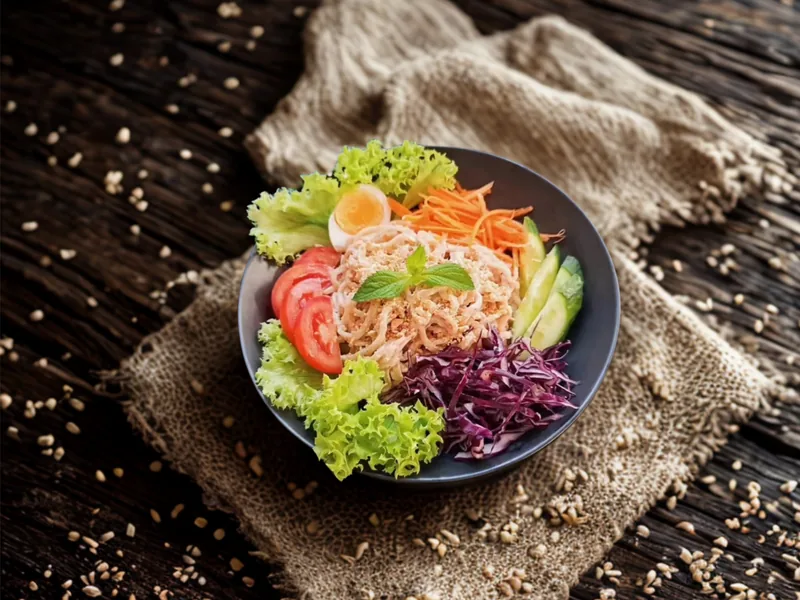
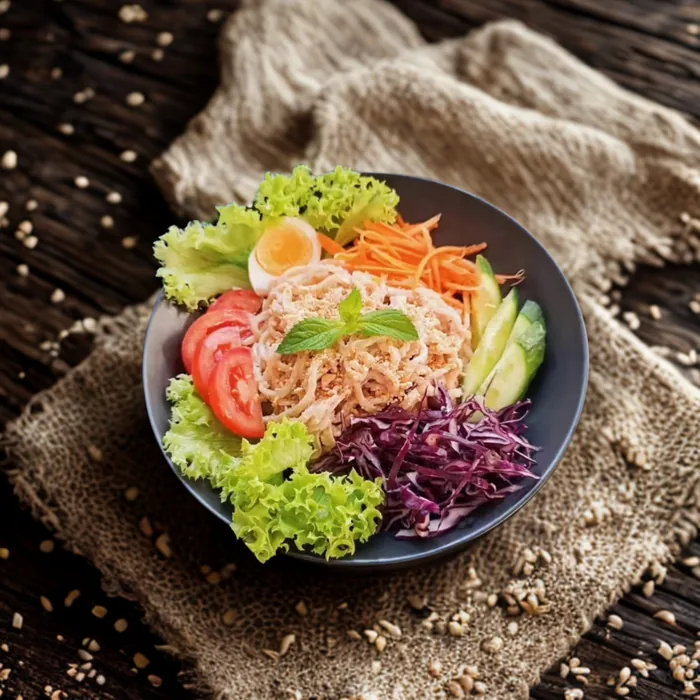
Gerichtefotos: quadratisch, Teller mittig und einheitlich gross
Felix' Wunsch: alle Teller gleich gross und in der Bildmitte. Das ging
nicht mit dem bisherigen Zuschnitt - und auch nicht im bisherigen Format.

Warum quadratisch
  Die Teller fuellen in den Vorlagen zwischen 60 und 93 Prozent der
  Bildbreite. Damit ein runder Teller bei 4:3 vollstaendig ins Bild
  passt, duerfte er hoechstens 70 Prozent einnehmen - das erfuellten nur
  sieben der zwanzig Aufnahmen. Bei einem quadratischen Ausschnitt
  entfaellt die Einschraenkung.

Wie die Teller vermessen wurden
  Zwei automatische Verfahren scheiterten, beide sind dokumentiert:

  Eine Maske aus "sehr dunkel oder stark gesaettigt" sollte Teller und
  Essen vom Untergrund trennen. Sie erfasste praktisch das ganze Bild,
  weil das Holz dieser Aufnahmen selbst dunkel ist - Durchmesser 0,97 bei
  18 von 20 Bildern, also unbrauchbar.

  Danach Hough-Kreiserkennung, die grundsaetzlich passt, weil Teller rund
  sind. Ergebnis brauchbar bei etwa der Haelfte, sonst Durchmesser
  zwischen 0,39 und 1,02 - beim gruenen Curry wurde nur das Essen
  erkannt, bei Pork Adobo die Reisschale daneben mit eingefasst. Zur
  Kontrolle sind die erkannten Kreise ins Bild gezeichnet worden; da war
  es offensichtlich.

  Deshalb von Hand: 10-Prozent-Raster ueber die zwanzig Originale gelegt,
  Mittelpunkt und Durchmesser abgelesen, Werte in tools/tellerwerte.py.
  Bei zwanzig Bildern ist das schneller als weiteres Feilen an der
  Automatik und sicher richtig. Die Quellzuordnung steht in
[…]

diff --git a/speisekarte.html b/speisekarte.html
@@ -1042,13 +1042,13 @@
   .dishes{display:grid;grid-template-columns:1fr 1fr;gap:1px;background:var(--line);border:1px solid var(--line);}
   .dish{background:var(--bg);padding:44px 36px;}
   section[style] .dish{background:var(--bg-2);}
-  /* Das Foto sitzt innerhalb des Kartenpolsters statt randlos an der Oberkante.
-     Zusammen mit dem 4:3-Zuschnitt (statt 3:2) bleibt deutlich mehr vom Teller
-     stehen — bei den hochkanten Vorlagen fiel vorher über die Hälfte weg.
-     Der Zuschnitt ist auf den Schwerpunkt der Farbsättigung zentriert, der bei
-     diesen Aufnahmen zuverlässig auf dem Teller liegt. width/height verhindern
-     Layoutsprünge beim Nachladen. */
-  .dish img{width:100%;height:auto;margin:0 0 24px;border:1px solid var(--line);}
+  /* Quadratisches Format: Nur so passt ein runder Teller vollständig und in
+     einheitlicher Größe ins Bild. Bei 4:3 dürfte er höchstens 70 % der Breite
+     einnehmen — das erfüllten nur sieben der zwanzig Vorlagen.
+     Lage und Durchmesser der Teller sind von Hand vermessen (tools/, siehe
+     Commit-Verlauf); die Zuschnitte setzen den Teller mittig und auf 80 % der
+     Bildbreite. width/height verhindern Layoutsprünge beim Nachladen. */
+  .dish img{width:100%;height:auto;aspect-ratio:1/1;object-fit:cover;margin:0 0 24px;border:1px solid var(--line);}
   .dish h3{font-size:1.5rem;margin-bottom:12px;}
   .dish > p{color:var(--cream-dim);font-size:0.92rem;margin-bottom:18px;}
   .tags{display:flex;flex-wrap:wrap;gap:8px;margin-bottom:22px;}
@@ -1247,42 +1247,42 @@
     </div>
     <div class="dishes">
       <article class="dish">
-        <img src="img/gerichte/gruenes-thai-curry.webp" width="800" height="600" loading="lazy" alt="Grünes Thai Curry mit grünen Bohnen und Hähnchen">
+        <img src="img/gerichte/gruenes-thai-curry.webp" width="700" height="700" loading="lazy" alt="Grünes Thai Curry mit grünen Bohnen und Hähnchen">
         <h3>Grünes Thai Curry</h3>
         <p>Ein feuriges Thai Curry mit Zucchini, grünen Bohnen und Karotten. Entweder mit mariniertem Hähnchenfleisch oder als vegane Variante mit Süßkartoffeln.</p>
         <div class="tags"><span class="tag">vegan möglich</span><span class="tag">feurig</span></div>
         <table class="preise"><thead><tr><th scope="col"><span class="vh">Variante</span></th><th scope="col">Normal</th><th scope="col">Klein</th><th scope="col">Schüler</th></tr></thead><tbody><tr><th scope="row">Mit Hähnchen</th><td data-label="Normal">9,90 €</td><td data-label="Klein">7,50 €</td><td data-label="Schüler">7,50 €</td></tr><tr><th scope="row">Vegan</th><td data-label="Normal">9,40 €</td><td data-label="Klein">7,00 €</td><td data-label="Schüler">7,00 €</td></tr></tbody></table>
       </article>
       <article class="dish">
-        <img src="img/gerichte/gelbes-thai-curry.webp" width="800" height="600" loading="lazy" alt="Gelbes Thai Curry mit Kartoffeln in dunkler Schale">
+        <img src="img/gerichte/gelbes-thai-curry.webp" width="700" height="700" loading="lazy" alt="Gelbes Thai Curry mit Kartoffeln in dunkler Schale">
         <h3>Gelbes Thai Curry</h3>
         <p>Ein mildes südthailändisches Curry mit Kartoffeln, Zwiebeln und Karotten. Entweder mit zartem Hähnchenfleisch oder alternativ mit Süßkartoffeln.</p>
         <div class="tags"><span class="tag">vegan möglich</span><span class="tag">mild</span></div>
         <table class="preise"><thead><tr><th scope="col"><span class="vh">Variante</span></th><th scope="col">Normal</th><th scope="col">Klein</th><th scope="col">Schüler</th></tr></thead><tbody><tr><th scope="row">Mit Hähnchen</th><td data-label="Normal">9,90 €</td><td data-label="Klein">7,50 €</td><td data-label="Schüler">7,50 €</td></tr><tr><th scope="row">Vegan</th><td data-label="Normal">9,40 €</td><td data-label="Klein">7,00 €</td><td data-label="Schüler">7,00 €</td></tr></tbody></table>
       </article>
       <article class="dish">
-        <img src="img/gerichte/panang-thai-curry.webp" width="800" height="600" loading="lazy" alt="Panang Thai Curry mit Karotten und grünen Bohnen">
+        <img src="img/gerichte/panang-thai-curry.webp" width="700" height="700" loading="lazy" alt="Panang Thai Curry mit Karotten und grünen Bohnen">
         <h3>Panang Thai Curry</h3>
         <p>Pikantes Thai Curry mit grünen Bohnen, Karotten, Brokkoli und Kaffirlimettenblättern. Entweder mit mariniertem Hähnchenfleisch oder alternativ mit Süßkartoffeln.</p>
         <div class="tags"><span class="tag">vegan möglich</span><span class="tag">pikant</span></div>
         <table class="preise"><thead><tr><th scope="col"><span class="vh">Variante</span></th><th scope="col">Normal</th><th scope="col">Klein</th><th scope="col">Schüler</th></tr></thead><tbody><tr><th scope="row">Mit Hähnchen</th><td data-label="Normal">9,90 €</td><td data-label="Klein">7,50 €</td><td data-label="Schüler">7,50 €</td></tr><tr><th scope="row">Vegan</th><td data-label="Normal">9,40 €</td><td data-label="Klein">7,00 €</td><td data-label="Schüler">7,00 €</td></tr></tbody></table>
       </article>
       <article class="dish">
-        <img src="img/gerichte/massaman-thai-curry.webp" width="800" height="600" loading="lazy" alt="Massaman Curry mit Kartoffeln in dunkler Schale">
+        <img src="img/gerichte/massaman-thai-curry.webp" width="700" height="700" loading="lazy" alt="Massaman Curry mit Kartoffeln in dunkler Schale">
         <h3>Massaman Thai Curry</h3>
         <p>Ein würziges, leicht pikantes Thai Curry mit Kokosmilch, Kartoffeln, Zwiebeln und Karotten. Entweder mit zartem Hähnchenfleisch oder alternativ mit Süßkartoffeln.</p>
         <div class="tags"><span class="tag">vegan möglich</span></div>
         <table class="preise"><thead><tr><th scope="col"><span class="vh">Variante</span></th><th scope="col">Normal</th><th scope="col">Klein</th><th scope="col">Schüler</th></tr></thead><tbody><tr><th scope="row">Mit Hähnchen</th><td data-label="Normal">9,90 €</td><td data-label="Klein">7,50 €</td><td data-label="Schüler">7,50 €</td></tr><tr><th scope="row">Vegan</th><td data-label="Normal">9,40 €</td><td data-label="Klein">7,00 €</td><td data-label="Schüler">7,00 €</td></tr></tbody></table>
       </article>
       <article class="dish">
-        <img src="img/gerichte/nepalesisches-pilzcurry.webp" width="800" height="600" loading="lazy" alt="Nepalesisches Pilzcurry mit Champignons und Erbsen">
+        <img src="img/gerichte/nepalesisches-pilzcurry.webp" width="700" height="700" loading="lazy" alt="Nepalesisches Pilzcurry mit Champignons und Erbsen">
         <h3>Nepalesisches Pilzcurry</h3>
         <p>Ein mit verschiedenen Gewürzen aromatisiertes, mildes Curry mit Champignons, Erbsen und Tomatenstücken. Entweder mit zartem Hähnchenfleisch oder alternativ mit extra Gemüse.</p>
         <div class="tags"><span class="tag">vegan möglich</span><span class="tag">mild</span></div>
         <table class="preise"><thead><tr><th scope="col"><span class="vh">Variante</span></th><th scope="col">Normal</th><th scope="col">Klein</th><th scope="col">Schüler</th></tr></thead><tbody><tr><th scope="row">Mit Hähnchen</th><td data-label="Normal">10,90 €</td><td data-label="Klein">8,50 €</td><td data-label="Schüler">8,50 €</td></tr><tr><th scope="row">Vegan</th><td data-label="Normal">9,40 €</td><td data-label="Klein">7,00 €</td><td data-label="Schüler">7,00 €</td></tr></tbody></table>
       </article>
       <article class="dish">
-        <img src="img/gerichte/java-curry.webp" width="800" height="600" loading="lazy" alt="Java Curry mit Kichererbsen und Jasminreis">
+        <img src="img/gerichte/java-curry.webp" width="700" height="700" loading="lazy" alt="Java Curry mit Kichererbsen und Jasminreis">
         <h3>Java Curry</h3>
         <p>Ein exotisches Kichererbsencurry mit Jasminreis, Limettenschnitz und frischem Koriander. Cremig durch die Kichererbsen, frisch durch Koriander und Limette – leicht, aber mit Charakter.</p>
         <div class="tags"><span class="tag">vegan möglich</span><span class="tag">cremig</span></div>
@@ -1301,21 +1301,21 @@
     </div>
     <div class="dishes">
       <article class="dish">
-        <img src="img/gerichte/pad-thai.webp" width="800" height="600" loading="lazy" alt="Pad Thai mit Limette und gerösteten Erdnüssen auf dunklem Holz">
+        <img src="img/gerichte/pad-thai.webp" width="700" height="700" loading="lazy" alt="Pad Thai mit Limette und gerösteten Erdnüssen auf dunklem Holz">
         <h3>Pad Thai</h3>
         <p>In Pearls selbstgemachter Pad-Thai-Sauce angebratene Reisbandnudeln mit Karottenstreifen, Frühlingszwiebeln und Ei. Entweder mit mariniertem Hähnchenfleisch oder Crispy Tofu.</p>
         <div class="tags"><span class="tag">vegetarisch möglich</span><span class="tag">enthält Ei</span></div>
         <table class="preise"><thead><tr><th scope="col"><span class="vh">Variante</span></th><th scope="col">Normal</th><th scope="col">Klein</th><th scope="col">Schüler</th></tr></thead><tbody><tr><th scope="row">Mit Hähnchen</th><td data-label="Normal">10,90 €</td><td data-label="Klein">8,50 €</td><td data-label="Schüler">8,50 €</td></tr><tr><th scope="row">Vegetarisch</th><td data-label="Normal">9,40 €</td><td data-label="Klein">7,00 €</td><td data-label="Schüler">7,00 €</td></tr></tbody></table>
       </article>
       <article class="dish">
-        <img src="img/gerichte/yakisoba.webp" width="800" height="600" loading="lazy" alt="Yakisoba mit Spitzkohl, Karotten und Noristreifen">
+        <img src="img/gerichte/yakisoba.webp" width="700" height="700" loading="lazy" alt="Yakisoba mit Spitzkohl, Karotten und Noristreifen">
         <h3>Yakisoba</h3>
         <p>In Ingwer und Knoblauch angebratene Ramennudeln mit knackigem Spitzkohl, Frühlingszwiebeln und Karottenstreifen. Entweder mit gebratenem Hähnchenfleisch oder alternativ mit Crispy Tofu.</p>
         <div class="tags"><span class="tag">vegan möglich</span></div>
         <table class="preise"><thead><tr><th scope="col"><span class="vh">Variante</span></th><th scope="col">Normal</th><th scope="col">Klein</th><th scope="col">Schüler</th></tr></thead><tbody><tr><th scope="row">Mit Hähnchen</th><td data-label="Normal">9,90 €</td><td data-label="Klein">7,50 €</td><td data-label="Schüler">7,50 €</td></tr><tr><th scope="row">Vegan</th><td data-label="Normal">9,40 €</td><td data-label="Klein">7,00 €</td><td data-label="Schüler">7,00 €</td></tr></tbody></table>
       </article>
       <article class="dish">
-        <img src="img/gerichte/kimchi-bacon-udon.webp" width="800" height="600" loading="lazy" alt="Kimchi-Bacon Udonnudeln mit Spiegelei">
+        <img src="img/gerichte/kimchi-bacon-udon.webp" width="700" height="700" loading="lazy" alt="Kimchi-Bacon Udonnudeln mit Spiegelei">
         <h3>Kimchi-Bacon Udonnudeln</h3>
         <p>Gebratene Udonnudeln in einer feurigen Gochujang-Soße mit pikantem Kimchi, Frühlingszwiebeln, Noristreifen und koreanischem Spitzkohlsalat. Dazu knuspriger Bacon oder Crispy Tofu, wahlweise mit Spiegelei.</p>
         <div class="tags"><span class="tag">vegetarisch möglich</span><span class="tag">feurig scharf</span></div>
@@ -1334,21 +1334,21 @@
     </div>
     <div class="dishes">
       <article class="dish">
-        <img src="img/gerichte/orange-chicken.webp" width="800" height="600" loading="lazy" alt="Orange Chicken mit Wokgemüse und Reis in dunkler Schale">
+        <img src="img/gerichte/orange-chicken.webp" width="700" height="700" loading="lazy" alt="Orange Chicken mit Wokgemüse und Reis in dunkler Schale">
         <h3>Orange Chicken</h3>
         <p>In einer fruchtigen süß-sauren Orangensoße gebratenes Wokgemüse aus Brokkoli, Paprika und Karotten. Dazu wahlweise knuspriges Hähnchen oder alternativ Crispy Tofu.</p>
         <div class="tags"><span class="tag">vegetarisch möglich</span></div>
         <table class="preise"><thead><tr><th scope="col"><span class="vh">Variante</span></th><th scope="col">Normal</th><th scope="col">Klein</th><th scope="col">Schüler</th></tr></thead><tbody><tr><th scope="row">Mit Hähnchen</th><td data-label="Normal">10,90 €</td><td data-label="Klein">8,50 €</td><td data-label="Schüler">8,50 €</td></tr><tr><th scope="row">Vegetarisch</th><td data-label="Normal">9,40 €</td><td data-label="Klein">7,00 €</td><td data-label="Schüler">7,00 €</td></tr></tbody></table>
       </article>
       <article class="dish">
-        <img src="img/gerichte/hoisin-chicken.webp" width="800" height="600" loading="lazy" alt="Hoisin Chicken mit Brokkoli, Paprika und Reis">
+        <img src="img/gerichte/hoisin-chicken.webp" width="700" height="700" loading="lazy" alt="Hoisin Chicken mit Brokkoli, Paprika und Reis">
         <h3>Hoisin Chicken</h3>
         <p>Knackiges Wokgemüse aus Brokkoli, Paprika und Zwiebeln mit gerösteten Cashewnüssen in einer aromatischen Hoisinsauce. Wahlweise mit knusprigem Hähnchen oder Crispy Tofu.</p>
         <div class="tags"><span class="tag">vegan möglich</span><span class="tag">enthält Cashewnüsse</span></div>
         <table class="preise"><thead><tr><th scope="col"><span class="vh">Variante</span></th><th scope="col">Normal</th><th scope="col">Klein</th><th scope="col">Schüler</th></tr></thead><tbody><tr><th scope="row">Mit Hähnchen</th><td data-label="Normal">10,90 €</td><td data-label="Klein">8,50 €</td><td data-label="Schüler">8,50 €</td></tr><tr><th scope="row">Vegan</th><td data-label="Normal">9,40 €</td><td data-label="Klein">7,00 €</td><td data-label="Schüler">7,00 €</td></tr></tbody></table>
       </article>
       <article class="dish">
-        <img src="img/gerichte/chicken-manchurian.webp" width="800" height="600" loading="lazy" alt="Chicken Manchurian mit Paprika und Reis">
+        <img src="img/gerichte/chicken-manchurian.webp" width="700" height="700" loading="lazy" alt="Chicken Manchurian mit Paprika und Reis">
         <h3>Chicken Manchurian</h3>
         <p>Von einem chinesischen Koch in Mumbai entdeckt und von uns interpretiert: würziges Fried Chicken mit knackiger Paprika in einer süß-säuerlichen Soße. Für Vegetarier bereiten wir auf dieselbe Art frittierte Blumenkohlröschen zu.</p>
         <div class="tags"><span class="tag">vegetarisch möglich</span><span class="tag">mild würzig</span></div>
@@ -1367,14 +1367,14 @@
     </div>
     <div class="dishes">
       <article class="dish">
-        <img src="img/gerichte/pork-adobo.webp" width="800" height="600" loading="lazy" alt="Pork Adobo mit Jasminreis auf dunklem Teller">
+        <img src="img/gerichte/pork-adobo.webp" width="700" height="700" loading="lazy" alt="Pork Adobo mit Jasminreis auf dunklem Teller">
         <h3>Pork Adobo</h3>
         <p>Das philippinische Nationalgericht: in dunkler Sojasoße und Essig marinierter und geschmorter Schweinenacken mit Kartoffelwürfeln und Zwiebeln. Dazu aromatischer Jasminreis.</p>
         <div class="tags"><span class="tag">würzig aromatisch</span></div>
         <table class="preise"><thead><tr><th scope="col"><span class="vh">Variante</span></th><th scope="col">Normal</th><th scope="col">Klein</th><th scope="col">Schüler</th></tr></thead><tbody><tr><th scope="row">Mit Schweinefleisch</th><td data-label="Normal">9,90 €</td><td data-label="Klein">7,50 €</td><td data-label="Schüler">7,50 €</td></tr></tbody></table>
       </article>
       <article class="dish">
-        <img src="img/gerichte/creamy-cajun-chicken.webp" width="800" height="600" loading="lazy" alt="Creamy Cajun Chicken mit Spinat, Cherrytomaten und Reis">
+        <img src="img/gerichte/creamy-cajun-chicken.webp" width="700" height="700" loading="lazy" alt="Creamy Cajun Chicken mit Spinat, Cherrytomaten und Reis">
         <h3>Creamy Cajun Chicken</h3>
         <p>Zartes, in Kokosöl angebratenes Hähnchenfleisch in einer Soße aus Kokosmilch, Cajun-Gewürzen, Kaffirlimettenblättern, Spinat und Cherrytomaten. Dazu Jasminreis.</p>
         <div class="tags"><span class="tag">vegetarisch möglich</span><span class="tag">feurig scharf</span></div>
@@ -1393,28 +1393,28 @@
     </div>
     <div class="dishes">
       <article class="dish">
-        <img src="img/gerichte/thailaendischer-glasnudelsalat.webp" width="800" height="600" loading="lazy" alt="Thailändischer Glasnudelsalat mit Crispy Tofu und Erdnüssen">
+        <img src="img/gerichte/thailaendischer-glasnudelsalat.webp" width="700" height="700" loading="lazy" alt="Thailändischer Glasnudelsalat mit Crispy Tofu und Erdnüssen">
         <h3>Thailändischer Glasnudelsalat</h3>
         <p>Ein erfrischender Salat mit Glasnudeln, Rotkohl, Karottenstreifen, Paprika, Frühlingszwiebeln, frischer Minze und Koriander. Entweder mit gebratenem Hähnchenfleisch oder alternativ mit Crispy Tofu.</p>
         <div class="tags"><span class="tag">vegan möglich</span></div>
         <table class="preise"><thead><tr><th scope="col"><span class="vh">Variante</span></th><th scope="col">Normal</th><th scope="col">Klein</th><th scope="col">Schüler</th></tr></thead><tbody><tr><th scope="row">Mit Hähnchen</th><td data-label="Normal">10,90 €</td><td data-label="Klein">8,50 €</td><td data-label="Schüler">8,50 €</td></tr><tr><th scope="row">Vegan</th><td data-label="Normal">9,40 €</td><td data-label="Klein">7,00 €</td><td data-label="Schüler">7,00 €</td></tr></tbody></table>
       </article>
       <article class="dish">
-        <img src="img/gerichte/soba-nudelsalat.webp" width="800" height="600" loading="lazy" alt="Soba Nudelsalat mit Tomaten, Gurke und Hähnchen">
+        <img src="img/gerichte/soba-nudelsalat.webp" width="700" height="700" loading="lazy" alt="Soba Nudelsalat mit Tomaten, Gurke und Hähnchen">
         <h3>Soba Nudelsalat</h3>
         <p>Ein sommerlicher Nudelsalat mit japanischen Buchweizennudeln, Karottenstreifen, Tomaten, Gurken und Edamame, angemacht in einem erfrischenden Ponzudressing. Entweder mit Hähnchen oder Crispy Tofu. Enthält eine gute Portion Knoblauch.</p>
         <div class="tags"><span class="tag">vegan möglich</span><span class="tag">kräftig mit Knoblauch</span></div>
         <table class="preise"><thead><tr><th scope="col"><span class="vh">Variante</span></th><th scope="col">Normal</th><th scope="col">Klein</th><th scope="col">Schüler</th></tr></thead><tbody><tr><th scope="row">Mit Hähnchen</th><td data-label="Normal">10,90 €</td><td data-label="Klein">8,50 €</td><td data-label="Schüler">8,50 €</td></tr><tr><th scope="row">Vegan</th><td data-label="Normal">9,40 €</td><td data-label="Klein">8,00 €</td><td data-label="Schüler">8,00 €</td></tr></tbody></table>
       </article>
       <article class="dish">
-        <img src="img/gerichte/ramennudelsalat.webp" width="800" height="600" loading="lazy" alt="Ramennudelsalat mit Sesamdressing, Gurke und Tomaten">
+        <img src="img/gerichte/ramennudelsalat.webp" width="700" height="700" loading="lazy" alt="Ramennudelsalat mit Sesamdressing, Gurke und Tomaten">
         <h3>Ramennudelsalat mit Sesamdressing</h3>
         <p>Japanische Ramennudeln in einem leckeren Sesamdressing, mit Rotkohl, Salat, Karottenstreifen, Tomaten und Gurken. Entweder mit gebratenem Hähnchenfleisch oder alternativ mit Crispy Tofu. Auf Wunsch mit einem Ei.</p>
         <div class="tags"><span class="tag">vegetarisch möglich</span></div>
         <table class="preise"><thead><tr><th scope="col"><span class="vh">Variante</span></th><th scope="col">Normal</th><th scope="col">Klein</th><th scope="col">Schüler</th></tr></thead><tbody><tr><th scope="row">Mit Hähnchen</th><td data-label="Normal">9,90 €</td><td data-label="Klein">7,50 €</td><td data-label="Schüler">7,50 €</td></tr><tr><th scope="row">Vegan</th><td data-label="Normal">9,40 €</td><td data-label="Klein">7,00 €</td><td data-label="Schüler">7,00 €</td></tr></tbody></table>
       </article>
       <article class="dish">
-        <img src="img/gerichte/bun-bun-salat.webp" width="800" height="600" loading="lazy" alt="Bun Bun Salat mit Reisnudeln, Tomaten und frischen Kräutern">
+        <img src="img/gerichte/bun-bun-salat.webp" width="700" height="700" loading="lazy" alt="Bun Bun Salat mit Reisnudeln, Tomaten und frischen Kräutern">
         <h3>Bun Bun Salat</h3>
         <p>Ein sommerlicher Salat mit Reisnudeln, Karottenstreifen, Babyspinat, Cocktailtomaten, Gurken, roten Zwiebeln, Minze und auf Wunsch mit Koriander. Zur Wahl stehen gezupfte Hähnchenbrust oder veganes Hack.</p>
         <div class="tags"><span class="tag">vegan möglich</span><span class="tag">mild würzig</span></div>
@@ -1432,7 +1432,7 @@
     </div>
     <div class="dishes">
       <article class="dish">
-        <img src="img/gerichte/indonesische-glasnudelsuppe.webp" width="800" height="600" loading="lazy" alt="Indonesische Glasnudelsuppe mit Paprika und Pilzen">
+        <img src="img/gerichte/indonesische-glasnudelsuppe.webp" width="700" height="700" loading="lazy" alt="Indonesische Glasnudelsuppe mit Paprika und Pilzen">
         <h3>Indonesische Glasnudelsuppe</h3>
         <p>Pikante Hühnersuppe mit gezupftem Hähnchenfleisch, Champignons, Paprika, Mu-Err-Pilzen und Glasnudeln.</p>
         <div class="tags"><span class="tag">pikant</span></div>
@@ -1450,7 +1450,7 @@
     </div>
     <div class="dishes">
       <article class="dish">
-        <img src="img/gerichte/mango-sticky-rice.webp" width="800" height="600" loading="lazy" alt="Mango Sticky Rice mit Sesam und Kokossoße in der Mitnahmebox">
+        <img src="img/gerichte/mango-sticky-rice.webp" width="700" height="700" loading="lazy" alt="Mango Sticky Rice mit Sesam und Kokossoße in der Mitnahmebox">
         <h3>Mango Sticky Rice</h3>
         <p>Das bekannteste thailändische Dessert. Selbstgemachter Sticky Rice mit süß-salziger Kokossoße und hochwertiger Flugmango. Ein Nachtisch, der nicht zu süß ist.</p>
         <div class="tags"><span class="tag">vegan</span></div>

diff --git a/tools/tellerwerte.py b/tools/tellerwerte.py
@@ -1,0 +1,42 @@
+# -*- coding: utf-8 -*-
+"""Lage und Groesse des Tellers in jeder Originalaufnahme.
+
+Von Hand abgelesen an einem 10-Prozent-Raster (outputs/menu-sheets/raster-alle.png),
+nachdem zwei automatische Verfahren zu unzuverlaessig waren: Eine Helligkeits-
+maske scheiterte am ebenfalls dunklen Holzuntergrund, die Hough-Kreiserkennung
+lieferte bei etwa der Haelfte der Bilder Durchmesser zwischen 0,39 und 1,02 —
+also offensichtlichen Unsinn. Bei zwanzig Bildern ist Ablesen schneller und
+sicher richtig.
+
+  cx, cy  Mittelpunkt des Tellers als Anteil von Bildbreite bzw. -hoehe
+  d       Durchmesser als Anteil der Bildbreite
+"""
+
+TELLER = {
+ "bun-bun-salat":                 (0.51, 0.47, 0.73),
+ "chicken-manchurian":            (0.53, 0.47, 0.70),
+ "creamy-cajun-chicken":          (0.50, 0.45, 0.76),
+ "gelbes-thai-curry":             (0.51, 0.45, 0.87),
+ "gruenes-thai-curry":            (0.45, 0.50, 0.74),
+ "hoisin-chicken":                (0.51, 0.50, 0.78),
+ "indonesische-glasnudelsuppe":   (0.53, 0.50, 0.70),
+ "java-curry":                    (0.51, 0.50, 0.93),
+ "kimchi-bacon-udon":             (0.47, 0.52, 0.70),
+ "mango-sticky-rice":             (0.57, 0.55, 0.70),   # Mitnahmebox statt Teller
+ "massaman-thai-curry":           (0.52, 0.50, 0.65),
+ "nepalesisches-pilzcurry":       (0.51, 0.50, 0.73),
+ "orange-chicken":                (0.50, 0.48, 0.84),
+ "pad-thai":                      (0.53, 0.52, 0.83),
+ "panang-thai-curry":             (0.51, 0.48, 0.82),
+ "pork-adobo":                    (0.58, 0.57, 0.67),
+ "ramennudelsalat":               (0.52, 0.52, 0.60),
+ "soba-nudelsalat":               (0.51, 0.55, 0.73),
+ "thailaendischer-glasnudelsalat":(0.53, 0.52, 0.70),
+ "yakisoba":                      (0.53, 0.55, 0.77),
+}
+
+# Zielanteil des Tellers an der Bildbreite. 0,80 liegt oberhalb des Medians
+# (0,73) und ist fuer 15 der 20 Vorlagen ohne Anschnitt erreichbar. Die fuenf
+# darueber (0,82 bis 0,93) behalten ihren groesseren Teller — dort ist im
+# Original schlicht kein Rand mehr uebrig.
+ZIEL_D = 0.80
